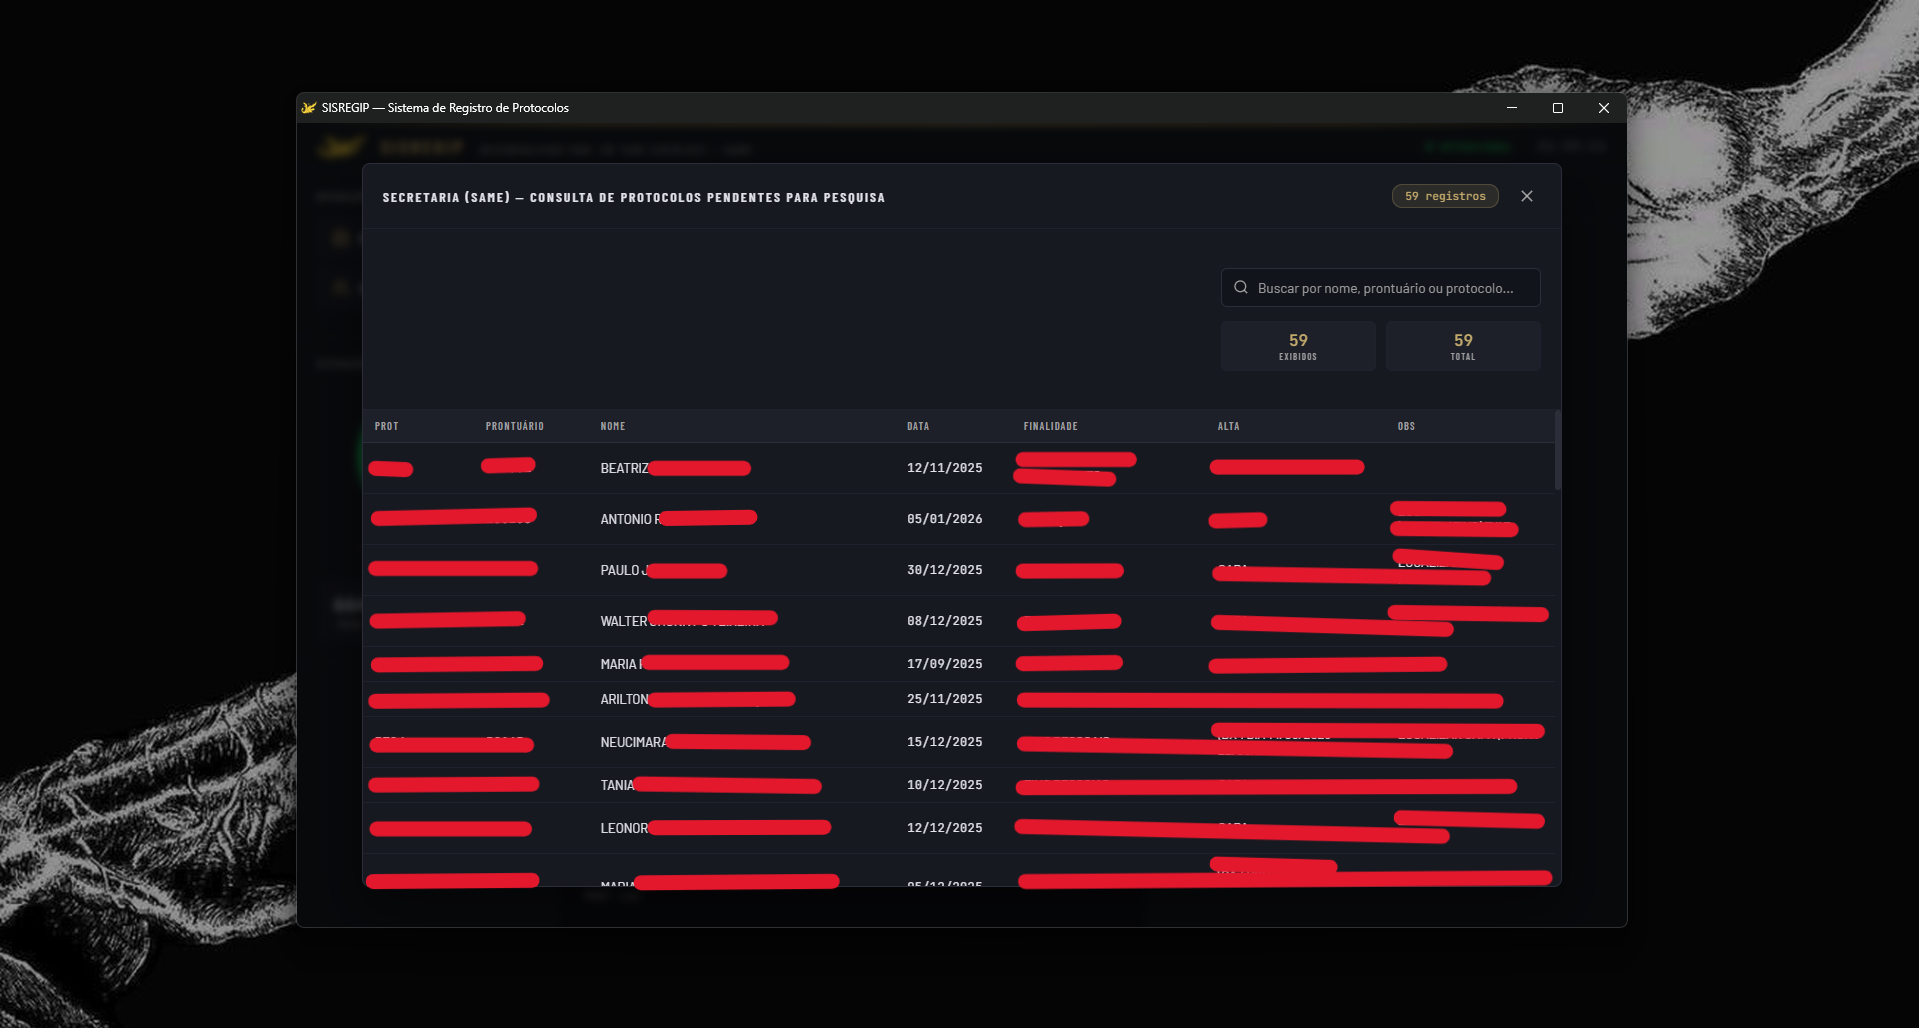
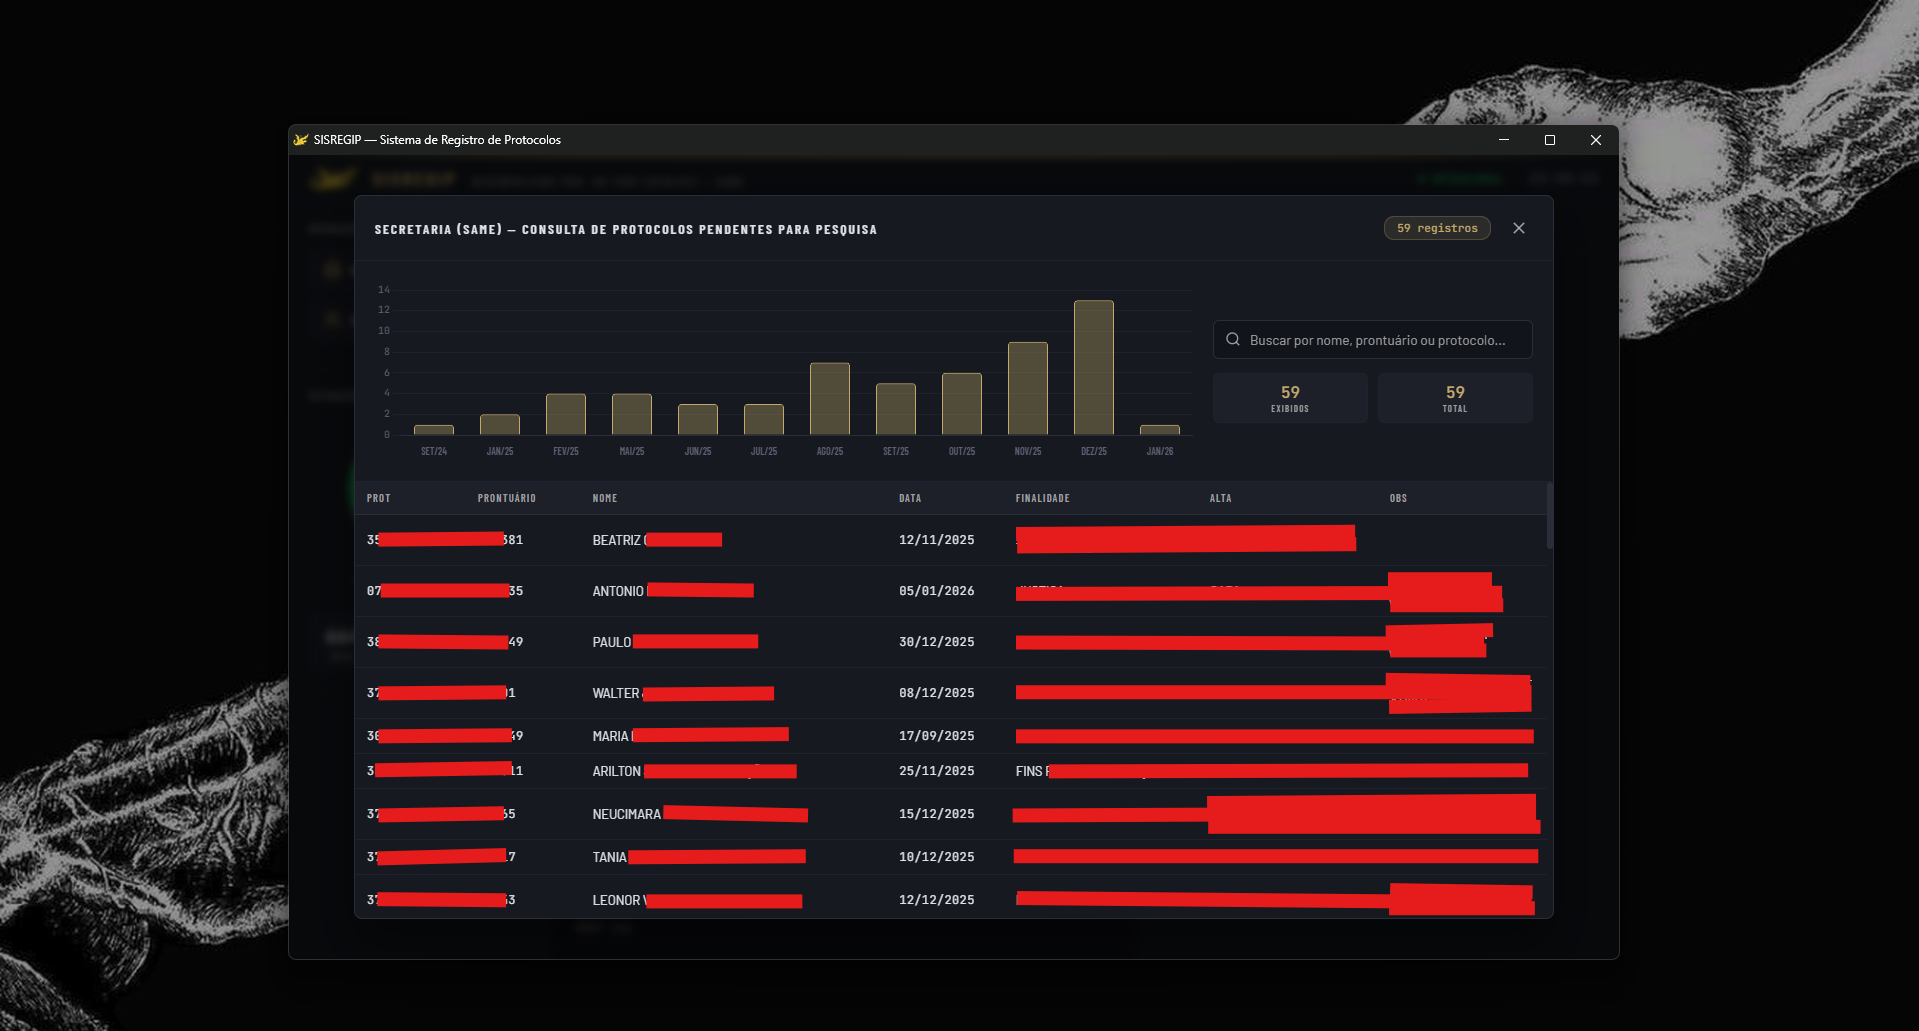
Correção de bug no gráfico da janela da secretaria, não estava aparecendo e atualização do README

diff --git a/static/script.js b/static/script.js
@@ -431,6 +431,7 @@ document.addEventListener('DOMContentLoaded', () => {
     }
 
     function renderSecChart(data) {
+        if (data.length > 0) console.log('Amostra data_prot:', data[0].data_prot, data[1]?.data_prot, data[2]?.data_prot);
         // Agrupar por mês (YYYY-MM)
         const monthCounts = {};
         const monthNames = ['JAN','FEV','MAR','ABR','MAI','JUN','JUL','AGO','SET','OUT','NOV','DEZ'];
@@ -510,6 +511,7 @@ document.addEventListener('DOMContentLoaded', () => {
                     },
                 },
                 plugins: {
+                    centerText: { display: false },
                     legend: { display: false },
                     tooltip: {
                         backgroundColor: '#1C1F2A',

diff --git a/templates/index.html b/templates/index.html
@@ -308,7 +308,7 @@
                 <!-- Gráfico + busca -->
                 <div class="sec-top-bar">
                     <div class="sec-chart-area">
-                        <canvas id="secChart" height="140"></canvas>
+                        <canvas id="secChart"></canvas>
                     </div>
                     <div class="sec-search-area">
                         <div class="search-container" style="padding: 0;">

diff --git a/static/style.css b/static/style.css
@@ -862,7 +862,15 @@ body, html {
 }
 
 .sec-chart-area {
-    min-height: 120px;
+    position: relative;
+    height: 180px;
+    min-height: 180px;
+    width: 100%;
+}
+
+.sec-chart-area canvas {
+    width: 100% !important;
+    height: 100% !important;
 }
 
 .sec-search-area {

diff --git a/README.md b/README.md
@@ -12,8 +12,15 @@ O SISREGIP é um sistema interno para gerenciar os protocolos da seção de esta
 
 Na prática, ele substitui a planilha Excel que todos no setor se confundem para salvar, editar ou acrescentar dados, gerando diversos arquivos mal formatados, com nomes de arquivos renomeados cada vez que fosse usado e salvando como novo, gerando confusão e ocupando armazenamento devido à pouca instrução sobre o uso de Excel por parte dos militares.   
 
-Imagem da tela inicial:
+---
 
+## Tela inicial
+O sistema possui uma tela inicial para registrar o acesso dos miltares ao sistema. Ao se identificar, o sistema registrará as movimentações que o usuário fez.   
+
+Imagem da tela inicial (Tela nativa e Web):
+
+![Dashboard principal do SISREGIP](/imagens/tela_web.png)
+![Dashboard principal do SISREGIP](/imagens/tela_nativa.png) 
 ![Dashboard principal do SISREGIP](/imagens/tela_inicial_1.png)   
 ![Dashboard principal do SISREGIP](/imagens/tela_inicial_2.png)
 
@@ -42,6 +49,15 @@ Essa consulta é somente leitura. O SISREGIP não altera nenhum dado da Secretar
 
 ---
 
+## Auditoria (tabela: registro_operacional)
+O banco de dados possui duas tabelas de auditoria, a tabela `registro_operacional` salva as movimentações do usuário no dashboard, seja: adicionando protocolo, excluindo ou editando, tudo será salvo no banco de dados.   
+
+Exemplo:
+
+![Dashboard principal do SISREGIP](/imagens/tabela_auditoria.png)
+
+---
+
 ## Relatórios
 
 O sistema gera relatórios em HTML que abrem direto no navegador, prontos para imprimir. Dá para filtrar por todos os protocolos, por um mês específico ou por ano. O relatório mostra o resumo de totais (entregues, pendentes) e a tabela completa.
@@ -56,7 +72,7 @@ Imagem do modelo de relatório:
 
 ## Stack técnica
 
-O backend é Python com Flask servindo uma API REST. O frontend é HTML e JavaScript puro, com Tailwind CSS, um framework CSS. Os gráficos são feitos com Chart.js. O banco de dados é SQLite. O sistema é empacotado como executável Windows com PyInstaller e distribuído com instalador Inno Setup.
+O backend é Python com Flask servindo uma API REST. O frontend é HTML, CSS e JavaScript. Os gráficos são feitos com Chart.js. O banco de dados é SQLite. O sistema é empacotado como executável Windows com PyInstaller e distribuído com instalador Inno Setup.
 
 ---
 
